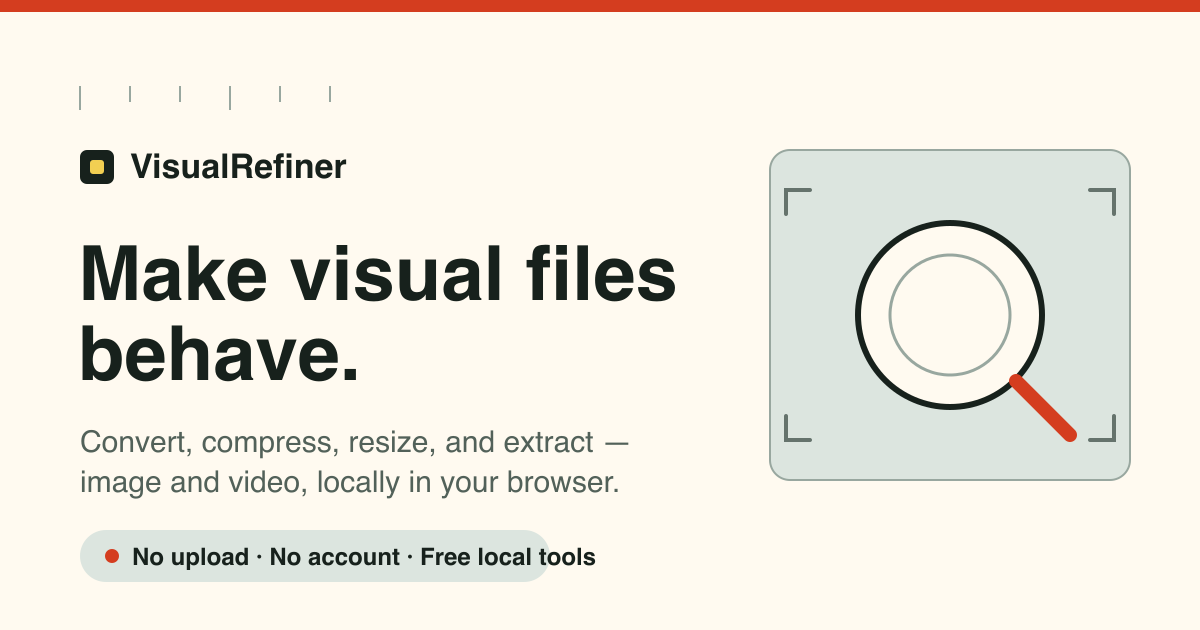
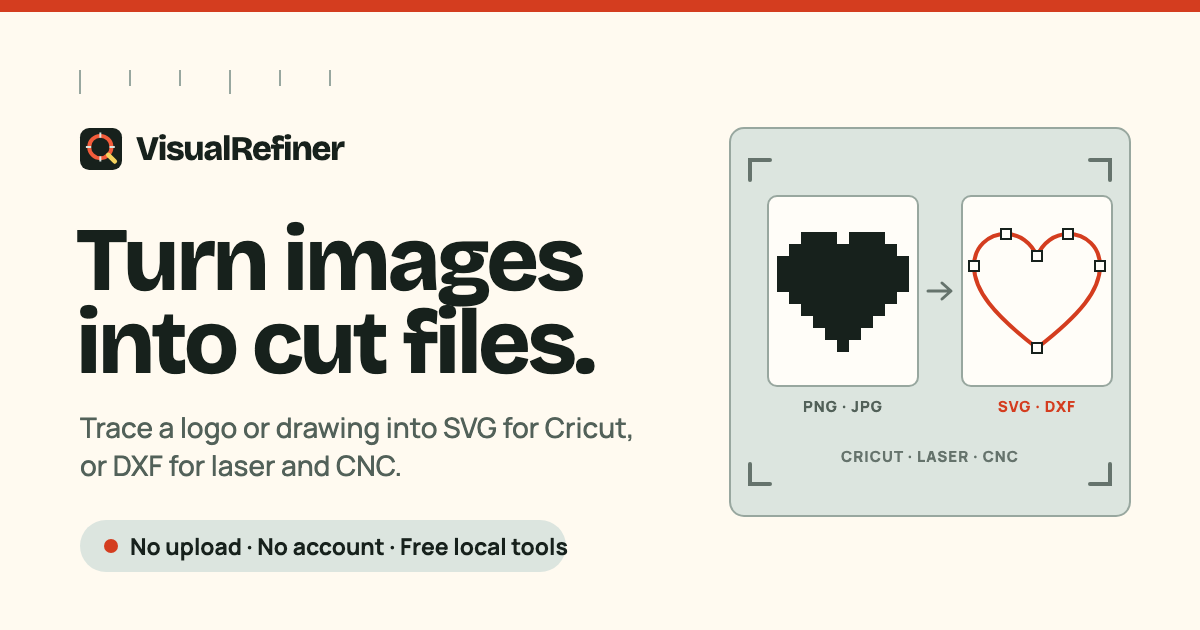
seo: refresh OG image for the cut-files message
The old card still said "image and video conversion". The new one uses the
homepage hero copy (Turn images into cut files / SVG for Cricut, DXF for laser
and CNC) and the real brand: Bricolage Grotesque + Manrope, icon.svg logo,
celadon bench with a raster-in, vector-path-out illustration.

- scripts/og.svg: rewritten source; scripts/render-og.mjs renders it with
  headless Chrome so the self-hosted fonts load
- layout: absolute og:image / twitter:image URL with ?v=2 so social caches refetch

diff --git a/src/app/layout.tsx b/src/app/layout.tsx
@@ -12,6 +12,8 @@ import "./globals.css";
 const display = localFont({ src: "../fonts/bricolage-grotesque-latin-wght-normal.woff2", variable: "--font-display", weight: "200 800", display: "swap" });
 const body = localFont({ src: "../fonts/manrope-latin-wght-normal.woff2", variable: "--font-body", weight: "200 800", display: "swap" });
 
+const OG_IMAGE = "https://visualrefiner.com/og.png?v=2";
+
 export const metadata: Metadata = {
   metadataBase: new URL("https://visualrefiner.com"),
   title: { default: "VisualRefiner — PNG to SVG, SVG to DXF & Image Tools, No Upload", template: "%s — VisualRefiner" },
@@ -24,11 +26,12 @@ export const metadata: Metadata = {
     // No title/description here on purpose: Next falls og:title / og:description back to
     // each page's own title/description, so every page gets a correct per-page card.
     url: "https://visualrefiner.com",
-    images: [{ url: "/og.png", width: 1200, height: 630, alt: "VisualRefiner — local image and video tools" }],
+    // Absolute URL + ?v= so social platforms refetch after the image changes (source: scripts/og.svg).
+    images: [{ url: OG_IMAGE, width: 1200, height: 630, alt: "VisualRefiner: turn images into SVG and DXF cut files" }],
   },
   twitter: {
     card: "summary_large_image",
-    images: ["/og.png"],
+    images: [OG_IMAGE],
   },
 };
 
